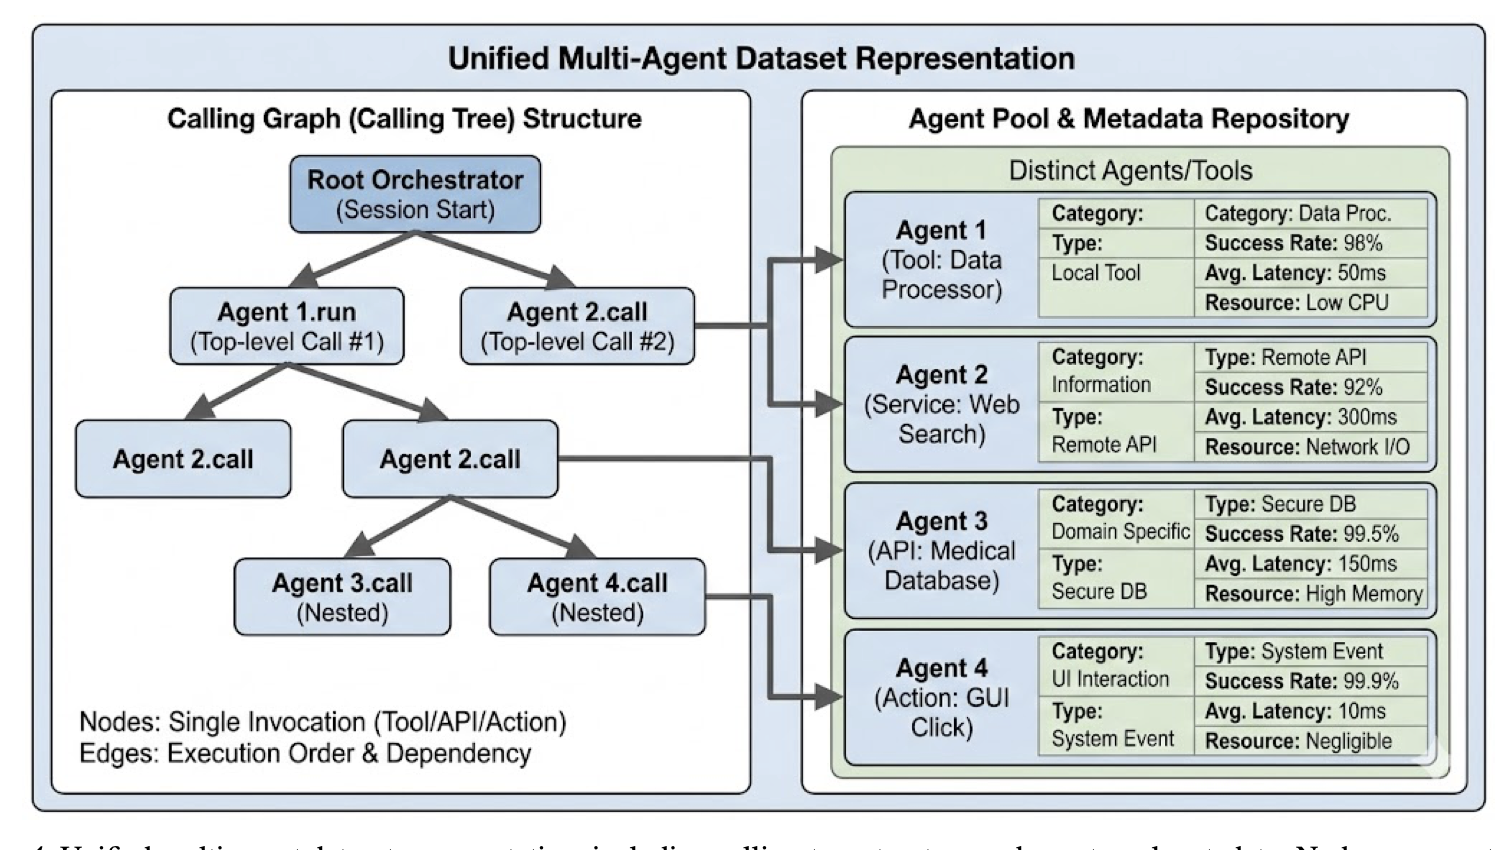
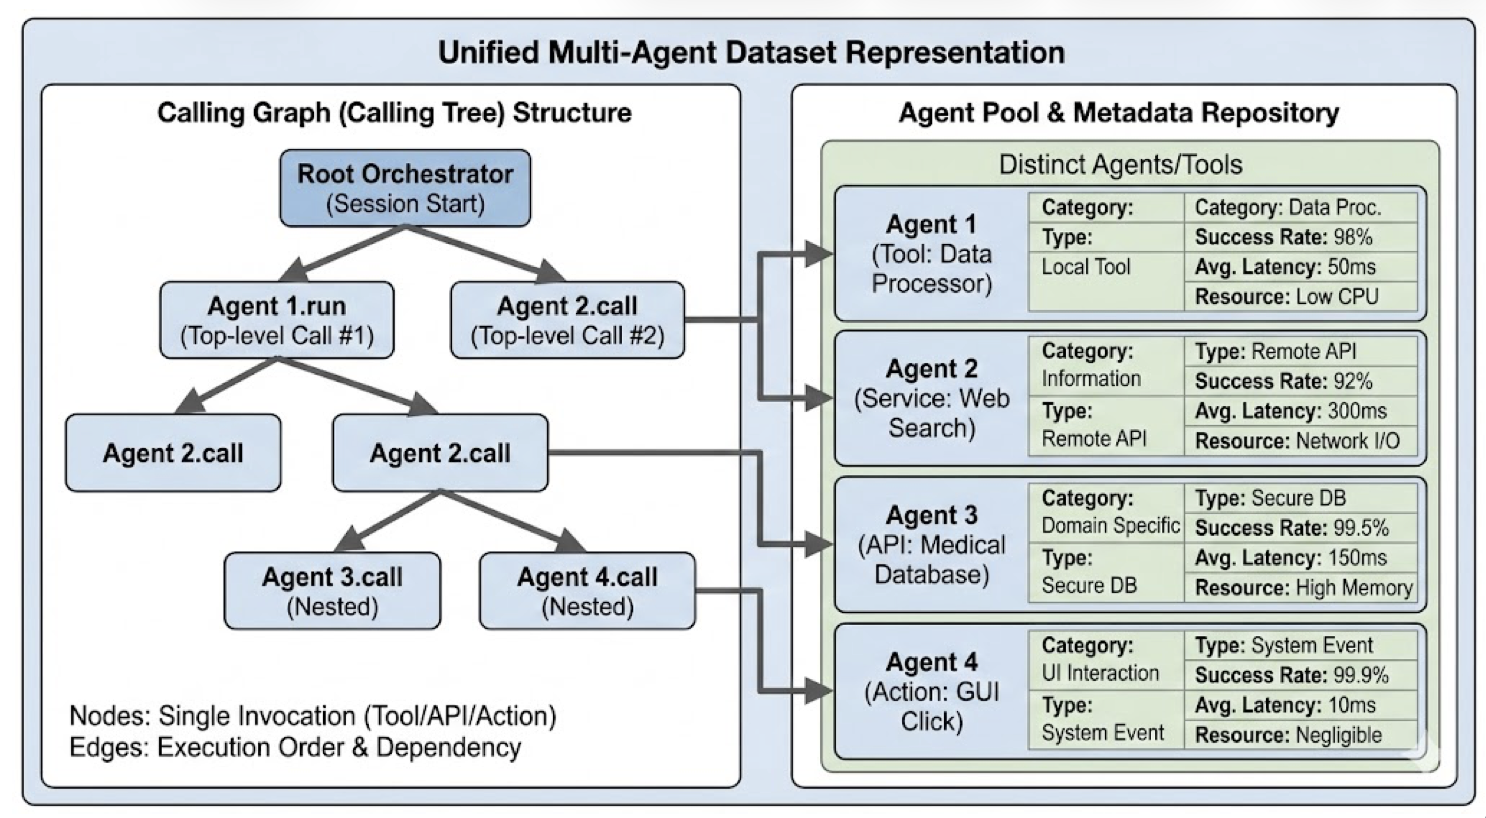
Refresh README figures

diff --git a/README.md b/README.md
@@ -56,7 +56,7 @@ Both settings use a two-stage pipeline:
 ## Framework
 
 <p align="center">
-  <img src="assets/pipeline.png" alt="Two-stage constrained recommendation pipeline" width="950">
+  <img src="assets/pipeline.png" alt="Two-stage constrained recommendation pipeline" width="80%">
 </p>
 
 The framework starts from a task query, a unified calling-tree dataset, and an
@@ -67,7 +67,7 @@ recommended agent or final calling-graph execution plan.
 ## Unified Data Representation
 
 <p align="center">
-  <img src="assets/data.png" alt="Unified multi-agent dataset representation" width="950">
+  <img src="assets/data.png" alt="Unified multi-agent dataset representation" width="80%">
 </p>
 
 The normalized data representation connects each calling tree to a metadata-rich